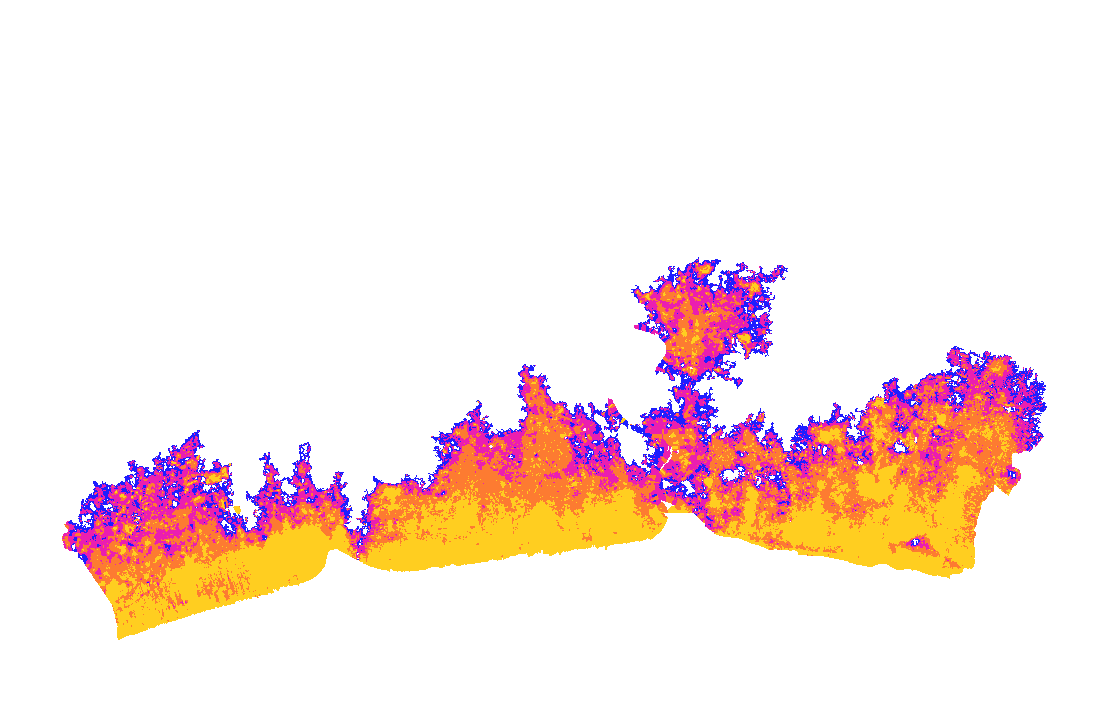
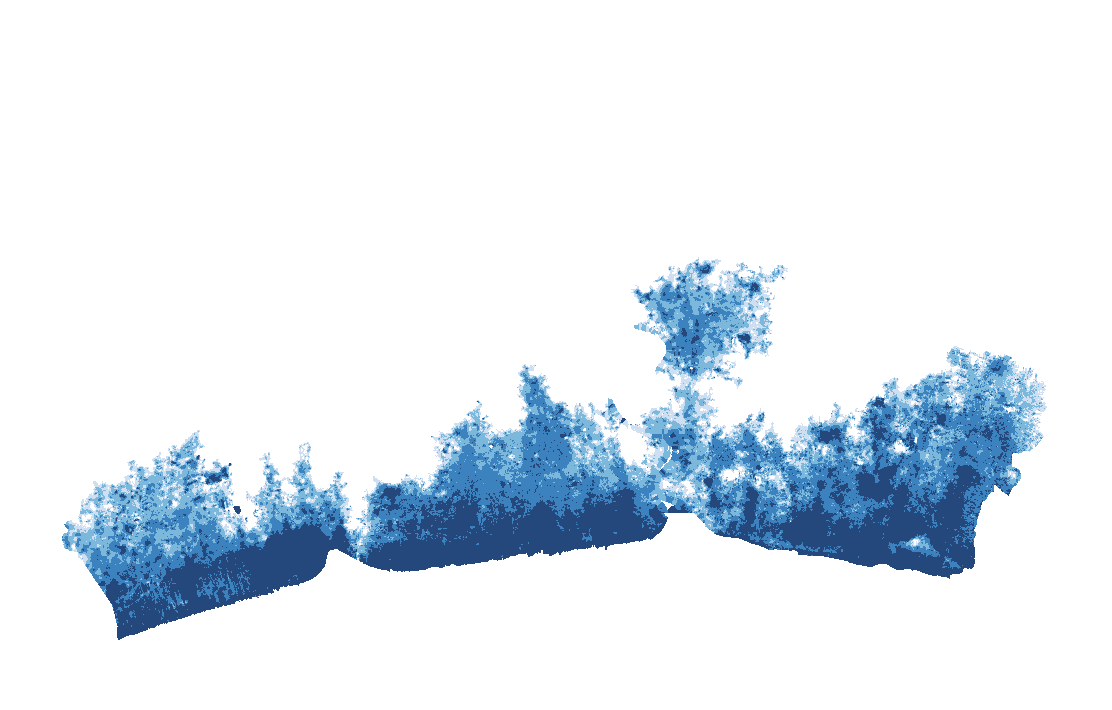
Site: sea flood depth in blue shades instead of blue/magenta/orange/yellow
Recolour the 18 SFINCS flood layers and the depth legend (meta.json sfl.depth)
to a light-to-dark blue scale, and bump ASSET_V so browsers load the new files.

Changed region(s): [[0.0306, 0.3408, 0.9478, 0.8986]]

diff --git a/index.html b/index.html
@@ -1079,7 +1079,7 @@ const protocol = new pmtiles.Protocol();
 maplibregl.addProtocol('pmtiles', protocol.tile);
 // ไฟล์ข้อมูลของเว็บ (json, bin, png) ต่อท้ายด้วยเลขรุ่น เบราว์เซอร์จะโหลดของใหม่ทันทีหลังอัปเดต ไม่ค้างสีหรือค่าเก่าในแคช
 // เปลี่ยน ASSET_V ทุกครั้งที่อัปโหลดไฟล์ข้อมูลชุดใหม่ (pmtiles ไม่ผ่านตรงนี้ เพราะโหลดเป็นช่วง ๆ ผ่าน pmtiles.js)
-const ASSET_V = '20261115';
+const ASSET_V = '20261126';
 const vurl = u => typeof u !== 'string' || /^[a-z]+:/i.test(u) || u.includes('?') ? u : `${u}?v=${ASSET_V}`;
 const fetch0 = window.fetch.bind(window);
 window.fetch = (u, o) => fetch0(vurl(u), o);
